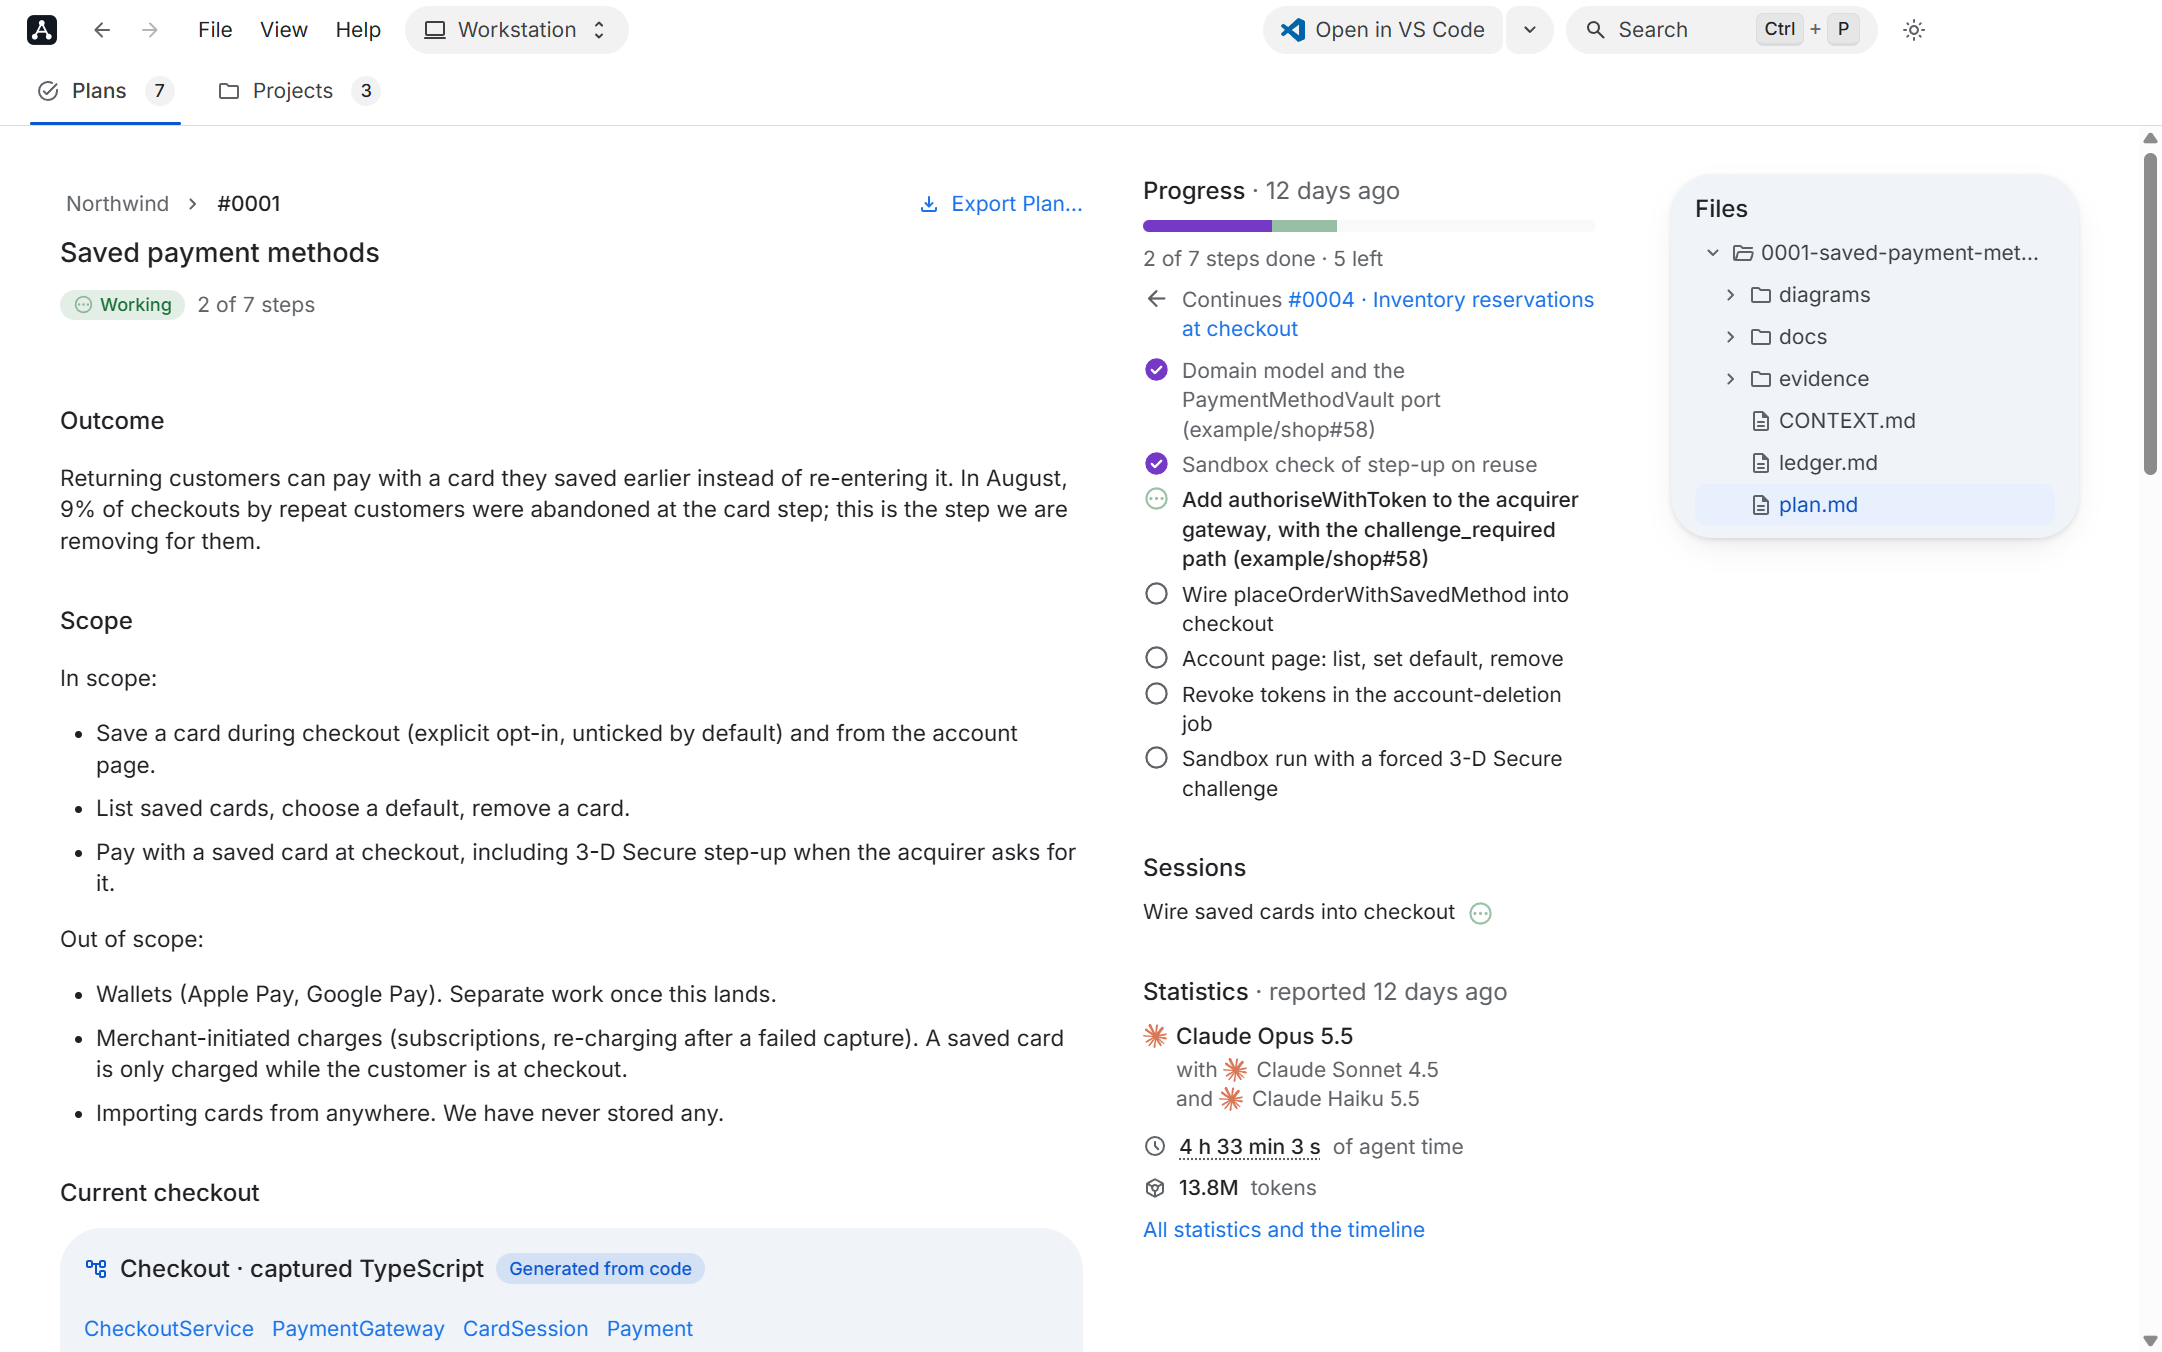
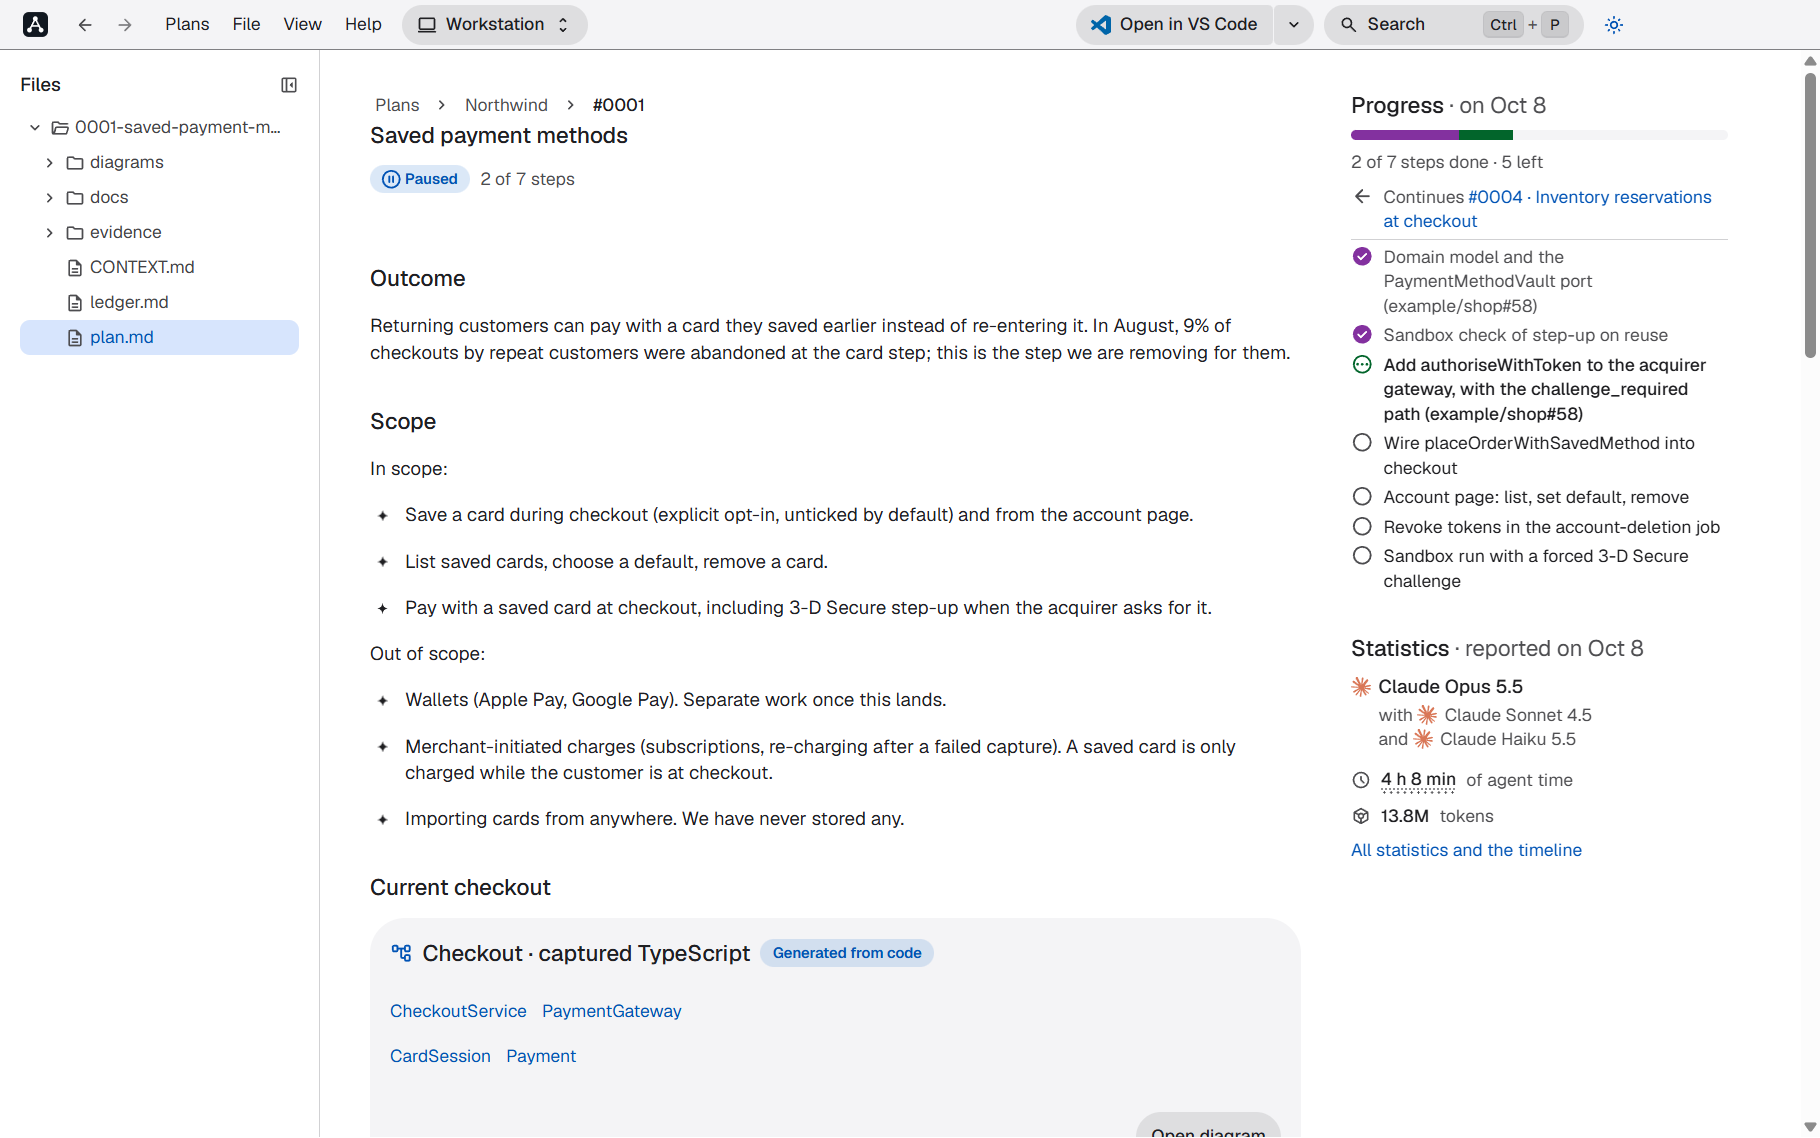
Docs: screenshots of the hub and a plan in the new window

diff --git a/README.md b/README.md
@@ -10,7 +10,7 @@
 
 **Atlas is where your coding agents' plans live.** When you design something with an agent, the plan, its steps, the decisions behind it and the diagrams that explain it are written into a planning folder on your computer instead of disappearing with the chat. Every agent session that works in your project finds them again, keeps them current as it works, and you follow all of it in one desktop app.
 
-![The Atlas hub on the computer Workstation: seven open plans of the projects Northwind, Platform and Field app, grouped as Working (one plan an agent is on now, with its model, agent time and tokens), Blocked with their reasons, Paused and Drafts, each with its project, steps done and when it changed](assets/hub.png)
+![The Atlas hub on the computer Workstation: three open plans of the project Northwind, grouped as Blocked (Customer order notifications, with why it is blocked), Paused (Saved payment methods, with the step now worked on, Claude Opus 5.5 and two other models, its agent time and tokens) and Drafts (Order fulfilment model), each with its project, steps done and when it changed; the title bar holds Plans, File, View and Help and the computer menu, and the heading line the search, the project menu and the Open, Closed and All filter](assets/hub.png)
 
 ## Why bother
 
@@ -31,7 +31,7 @@ Atlas fixes that without changing how you work with your agent:
 2. **Implement.** Say "atlas implement". The agent starts the accepted plan with its steps, marks each one as it goes, reviews its work, and delivers it the way the plan says: commits, a branch, or a pull request that passes CI. When the work looks finished, it asks you before closing it.
 3. **Follow along.** Atlas shows the plan with its summary, its steps and what is left, the diagrams under the headings they explain, the sessions that worked on it, and what it cost.
 
-![A plan in Atlas: Saved payment methods, Working, with its outcome and scope; beside it its progress (planning steps done in their own colour, the step being worked on, the steps left), the work it continues, the session working on it and its statistics by model; and its files](assets/plan.png)
+![A plan in Atlas: Saved payment methods, #0001 of Northwind, under the breadcrumb Plans › Northwind › #0001, Paused with 2 of 7 steps; its Outcome and Scope, and a diagram card, Checkout · captured TypeScript, Generated from code, with its elements, under the heading Current checkout. At the left the Files sidebar with the work folder, plan.md marked; at the right the side column: Progress (2 of 7 steps done, 5 left, the step in progress), Continues #0004 Inventory reservations at checkout, the steps, and Statistics (Claude Opus 5.5 with Claude Sonnet 4.5 and Claude Haiku 5.5, 4 h 8 min of agent time, 13.8M tokens); Open in VS Code and Search in the title bar](assets/plan.png)
 
 Atlas works with **Claude Code** and **Codex** through its plugin: tools for the planning state, three skills (`atlas`, `atlas-grill` and `atlas-implement`), and hooks that check every planning edit and measure the session as it works. You never have to tell the agent to update its plan or report its time.
 

diff --git a/app/README.md b/app/README.md
@@ -1,6 +1,6 @@
 # Atlas desktop app
 
-![The Atlas hub on the computer Workstation: seven open plans of the projects Northwind, Platform and Field app, grouped as Working (one plan an agent is on now, with its model, agent time and tokens), Blocked with their reasons, Paused and Drafts, each with its project, steps done and when it changed](../assets/hub.png)
+![The Atlas hub on the computer Workstation: three open plans of the project Northwind, grouped as Blocked (Customer order notifications, with why it is blocked), Paused (Saved payment methods, with the step now worked on, Claude Opus 5.5 and two other models, its agent time and tokens) and Drafts (Order fulfilment model), each with its project, steps done and when it changed; the title bar holds Plans, File, View and Help and the computer menu, and the heading line the search, the project menu and the Open, Closed and All filter](../assets/hub.png)
 
 Atlas is a desktop app for your Atlas projects and their plans. Every window opens on the hub, one list of every plan of the computer's projects, and shows one place at a time: the hub, a plan, its statistics, a diagram, a file, statistics or Settings. Discuss changes with your agent in chat; the agent edits the records, and Atlas shows them as they change.
 
@@ -81,7 +81,7 @@ Every plan is a row; a click anywhere on it opens the plan. A row shows:
 
 ## A plan
 
-![A plan in Atlas: Saved payment methods, #0001 of Northwind, Working with 2 of 7 steps under its breadcrumb; its Outcome and Scope, and a diagram card, Checkout · captured TypeScript, Generated from code, with its elements, under the heading Current checkout. Beside it the side column: Progress (2 of 7 steps done, 5 left, planning steps done in their own colour, the step in progress), Continues #0004 Inventory reservations at checkout, the session working on it, and Statistics (Claude Opus 5.5 with Claude Sonnet 4.5 and Claude Haiku 5.5, 4 h 33 min 3 s of agent time, 13.8M tokens). At the left the Files sidebar with the work folder, plan.md marked; Open in VS Code in the title bar](../assets/plan.png)
+![A plan in Atlas: Saved payment methods, #0001 of Northwind, under the breadcrumb Plans › Northwind › #0001, Paused with 2 of 7 steps; its Outcome and Scope, and a diagram card, Checkout · captured TypeScript, Generated from code, with its elements, under the heading Current checkout. At the left the Files sidebar with the work folder, plan.md marked; at the right the side column: Progress (2 of 7 steps done, 5 left, the step in progress), Continues #0004 Inventory reservations at checkout, the steps, and Statistics (Claude Opus 5.5 with Claude Sonnet 4.5 and Claude Haiku 5.5, 4 h 8 min of agent time, 13.8M tokens); Open in VS Code and Search in the title bar](../assets/plan.png)
 
 A plan's page shows:
 
